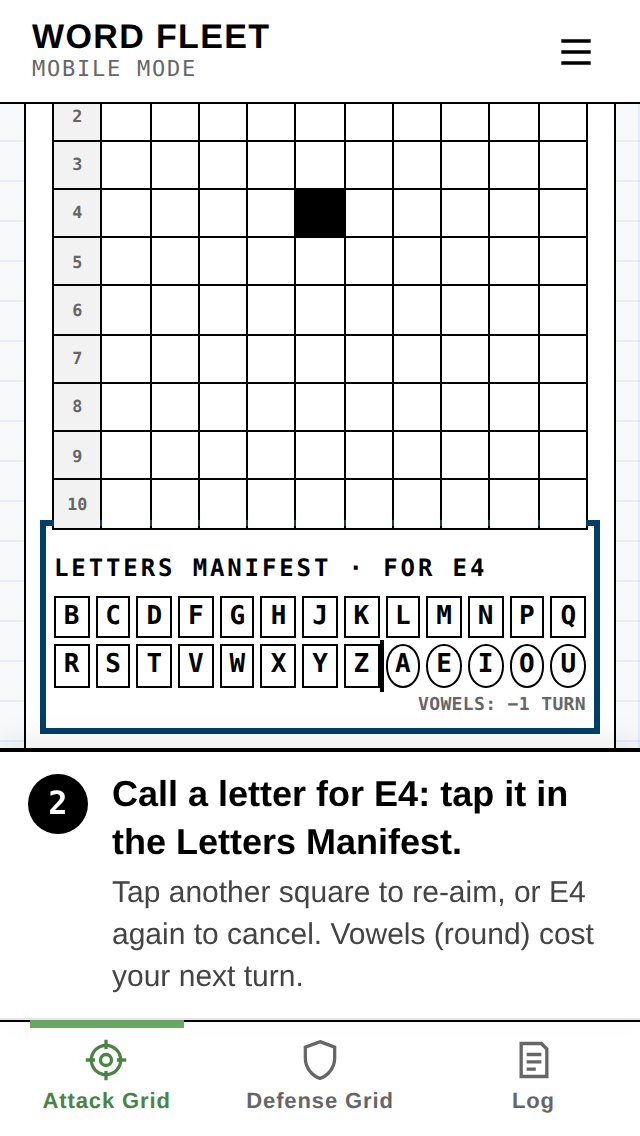
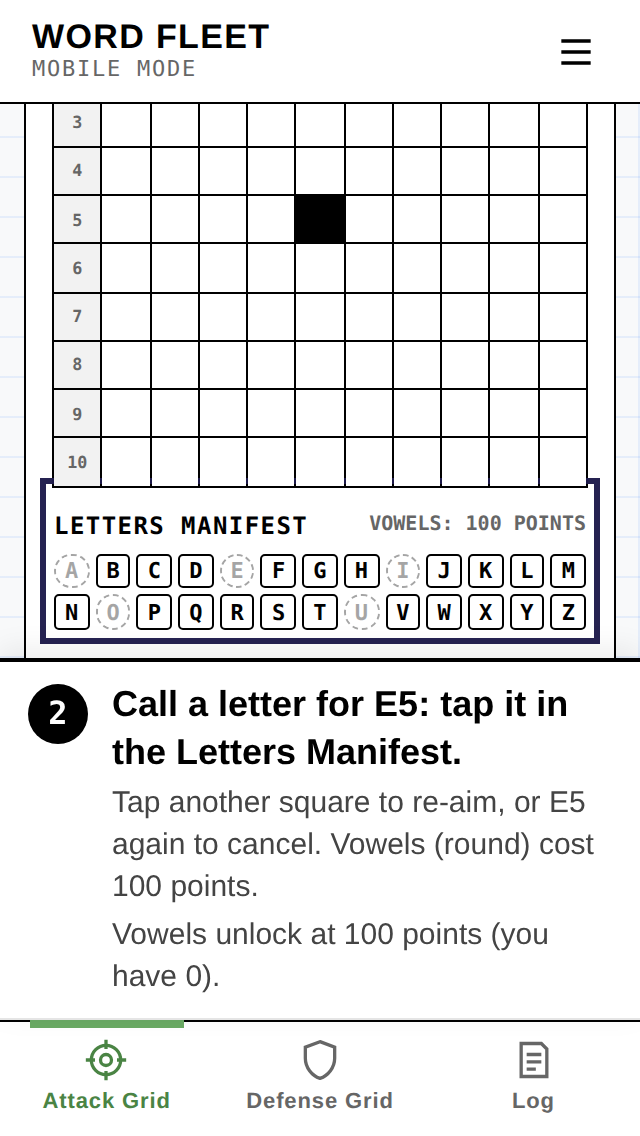
Vowels cost 100 points instead of a turn
The Human Captain needs 100 points or more to buy a vowel and pays 100 points for
it; no lost turn. Unaffordable vowels stay dimmed while aiming, with a coach line
saying when they unlock. The AI Captain keeps no score, so it still loses a turn.
v155.

Claude-Session: https://claude.ai/code/session_013sUGAAEC45a1EJCrQWVj9Q

Changed region(s): [[0.0, 0.0924, 1.0, 0.8935]]

diff --git a/mobile/app.js b/mobile/app.js
@@ -32,8 +32,10 @@
     bonus: 50,      // the called letter was in the square you aimed at
     sunk: 100,      // each word-ship sunk (every letter revealed)
     win: 500,       // victory
-    spare: 10       // at victory, each letter of the alphabet you never had to call
+    spare: 10,      // at victory, each letter of the alphabet you never had to call
+    vowel: 100      // the price of a vowel: you need this many points to buy one, and pay them
   };
+  function canBuyVowel() { return (S.score || 0) >= POINTS.vowel; }
   // Adds points and returns a short note of what they were for.
   function award(parts) {
     var total = 0, why = [];
@@ -820,7 +822,7 @@
   // chip(L, cls) returns one chip's HTML.
   function manifestHtml(label, left, chip) {
     return '<span class="uncalled-label"><span>' + label + '</span>' +
-      (left.some(isVowel) ? '<span class="uc-vowels-cap">Vowels: \u22121 turn</span>' : '') + '</span>' +
+      (left.some(isVowel) ? '<span class="uc-vowels-cap">Vowels: ' + POINTS.vowel + ' points</span>' : '') + '</span>' +
       left.map(function (L) { return chip(L, 'uc' + (isVowel(L) ? ' is-vowel' : '')); }).join('');
   }
 
@@ -897,7 +899,9 @@
     // Like the manifest: the grid lights up when it is the thing to tap (your turn, nothing aimed yet).
     $('gridAttack').classList.toggle('is-picking', live && !ui.sel);
     $('uncalled').innerHTML = manifestHtml('Letters Manifest', left, function (L, cls) {
-        return picking ? '<button type="button" class="' + cls + '" data-letter="' + L + '" aria-label="Call ' + L + (isVowel(L) ? ' (vowel: costs your next turn)' : '') + '">' + L + '</button>'
+        // A vowel you can't afford yet stays a plain (dimmed) chip.
+        if (picking && isVowel(L) && !canBuyVowel()) return '<span class="' + cls + ' is-locked" title="You need ' + POINTS.vowel + ' points to buy a vowel">' + L + '</span>';
+        return picking ? '<button type="button" class="' + cls + '" data-letter="' + L + '" aria-label="Call ' + L + (isVowel(L) ? ' (vowel: costs ' + POINTS.vowel + ' points)' : '') + '">' + L + '</button>'
                        : '<span class="' + cls + '">' + L + '</span>';
       });
     if (ui.flash) { clearTimeout(ui.flashTimer); ui.flashTimer = setTimeout(function () { ui.flash = null; }, 1800); }
@@ -967,7 +971,8 @@
       if (hint) sub.push('It calls a letter on your fleet. Watch the Defense Grid.');
     } else if (ui.sel) {
       step = '2'; main = 'Call a letter for <b>' + coordK(ui.sel) + '</b>: tap it in the Letters Manifest.';
-      if (hint) sub.push('Tap another square to re-aim, or ' + coordK(ui.sel) + ' again to cancel. Vowels (round) cost your next turn.');
+      if (hint) sub.push('Tap another square to re-aim, or ' + coordK(ui.sel) + ' again to cancel. Vowels (round) cost ' + POINTS.vowel + ' points.');
+      if (!canBuyVowel()) sub.push('Vowels unlock at ' + POINTS.vowel + ' points (you have ' + (S.score || 0) + ').');
     } else if (r && info && info.bonus) {
       cls = 'is-bonus'; step = '\u2605';
       main = 'Bonus turn! <b>' + info.L + '</b> was at <b>' + coordK(info.k) + '</b>. Tap another square.';
@@ -980,7 +985,7 @@
       if (!info.open && !info.bonus) sub.push(coordK(info.k) + ' holds a letter, not ' + info.L + ': marked ?');
       (info.sunk || []).forEach(function (w) { sub.unshift('<b>' + w + '</b> is sunk!'); });
       if (info.pts && info.pts.total) sub.push(ptsLine(info.pts));
-      if (info.vowel) sub.push('<span class="coach-warn">Vowel: you skip your next turn.</span>');
+      if (info.vowel) sub.push('<span class="coach-warn">Vowel bought: \u2212' + POINTS.vowel + ' points.</span>');
       else if (hint && info.t && !(info.sunk || []).length) sub.push('Reveal every letter of a word-ship to sink it.');
       sub.push('AI Captain\'s turn next<span class="dots"><i>.</i><i>.</i><i>.</i></span>');
     } else if (r) {
@@ -991,7 +996,7 @@
       (S.incoming || []).forEach(function (ev) { pre.push(aiMoveLine(ev)); });
       if (S.notice) pre.push(/vowel/.test(S.notice) ? 'AI lost a turn (vowel)' : S.notice);
       step = '1'; main = 'Your turn. Tap a square to aim.';
-      if (hint) sub.push('Then call a letter: every square holding it is revealed. Your letter in your square = bonus turn. Vowels cost a turn.');
+      if (hint) sub.push('Then call a letter: every square holding it is revealed. Your letter in your square = bonus turn. Vowels cost ' + POINTS.vowel + ' points.');
     }
     el.className = 'coach ' + cls;
     el.innerHTML = (step ? '<span class="coach-step">' + step + '</span>' : '') +
@@ -1124,6 +1129,7 @@
   function humanCall(L) {
     var k = ui.sel;
     if (!k || !canCall() || S.myTallies[L] != null) return;
+    if (isVowel(L) && !canBuyVowel()) return;   // vowels are bought with points
     closeSheet();
     var t = countOf(S.foe.words.join(''), L);
     var vowel = isVowel(L);
@@ -1135,13 +1141,13 @@
     ui.sel = null;
     if (!at) S.myShots[k] = { empty: true };   // open water: marked with a white dot
     else if (!bonus) markContact(S.myShots, k, L);   // holds another letter: marked ? with L ruled out
-    if (vowel) S.skip.me = true;
+    if (vowel) S.score = (S.score || 0) - POINTS.vowel;   // bought: the Human Captain pays in points, not a turn
     var sunkBefore = sunkWords(S.myShots, S.foe.ships);
     var cells = revealLetter(S.myShots, foeBoard(), L);
     var sunk = sunkWords(S.myShots, S.foe.ships).filter(function (w) { return sunkBefore.indexOf(w) === -1; });
     ui.flash = cells;
     log('me', coordK(k) + ': "Calling ' + NATO[L] + '!" &mdash; <span class="say">"' + L + ' tally ' + t + '."</span>' +
-      (bonus ? ' It was at ' + coordK(k) + ': bonus turn.' : '') + (vowel ? ' A vowel: the Human Captain loses the next turn.' : ''));
+      (bonus ? ' It was at ' + coordK(k) + ': bonus turn.' : '') + (vowel ? ' Bought a vowel: \u2212' + POINTS.vowel + ' points.' : ''));
     sfx('select');
     sfx(t ? 'fill' : 'zero', 0.2);
     if (sunk.length) log('me', sunk.join(', ') + ' sunk: every letter revealed.');
@@ -1162,7 +1168,7 @@
     var html = '<div class="report ' + (t ? 'is-good' : 'is-warn') + '"><div class="report-q">' + coordK(k) + ': "Calling ' + NATO[L] + '!"</div><div class="report-a">"' + L + ' tally ' + t + '."</div></div>' +
       (t ? revealNote(L, cells, 'the AI Captain\'s') : '<p class="hint">' + L + ' is nowhere in the AI Captain\'s fleet.</p>') +
       (bonus ? '<p class="bonus">\u2605 Bonus turn! ' + L + ' was hiding at ' + coordK(k) + '.</p>' : (at ? '' : '<p class="hint">' + coordK(k) + ' is open water.</p>')) +
-      (vowel ? '<p class="notice">Vowel: you lose your next turn.</p>' : '');
+      (vowel ? '<p class="notice">Vowel bought: \u2212' + POINTS.vowel + ' points.</p>' : '');
     setPref(CALLS_KEY, (+getPref(CALLS_KEY) || 0) + 1);
     showResult(bonus ? '\u2605 Bonus Turn!' : 'Calling ' + NATO[L], html, t > 0, bonus);
     S.result.info = { L: L, t: t, k: k, cells: cells, bonus: bonus, vowel: vowel, open: !at, sunk: sunk, pts: pts };
@@ -1429,7 +1435,7 @@
       '<h3>Your Turn: Call a Letter</h3><ul>' +
       '<li>Tap a hidden square on the Attack Grid, then call a letter. Every square in the enemy fleet that holds it is revealed, wherever it is.</li>' +
       '<li><strong>Bonus turn:</strong> if the letter is in the square you tapped, you go again. Otherwise the turn passes.</li>' +
-      '<li><strong>Vowels</strong> (A E I O U) can be called and reveal the same way, but the caller loses their next turn.</li>' +
+      '<li><strong>Vowels</strong> (A E I O U) reveal the same way, but they are bought: the Human Captain needs ' + POINTS.vowel + ' points or more and pays ' + POINTS.vowel + ' points for each. The AI Captain keeps no score, so it loses its next turn instead.</li>' +
       '<li><strong>Points:</strong> ' + POINTS.letter + ' for each letter you reveal, ' + POINTS.contact + ' for finding a square that holds a letter, ' + POINTS.bonus + ' for a bonus turn, ' + POINTS.sunk + ' for each word-ship you sink, and ' + POINTS.win + ' for victory plus ' + POINTS.spare + ' for each letter you never had to call.</li>' +
       '<li><strong>Sinking:</strong> a word-ship sinks when every one of its letters is revealed. Reveal the whole enemy fleet to win.</li></ul>' +
       '<h3>Winning</h3><ul>' +

diff --git a/mobile/index.html b/mobile/index.html
@@ -18,7 +18,7 @@
   <link rel="preconnect" href="https://fonts.gstatic.com" crossorigin>
   <link href="https://fonts.googleapis.com/css2?family=Courier+Prime:wght@400;700&family=Inter:wght@400;500;600;700&display=swap" rel="stylesheet">
   <!-- Bump ?v= on every release (and CACHE in sw.js) so a new page never runs old code. -->
-  <link rel="stylesheet" href="app.css?v=154">
+  <link rel="stylesheet" href="app.css?v=155">
 </head>
 <body>
 
@@ -228,7 +228,7 @@
 <div class="coach coach--notice" id="notice" role="alert" aria-live="assertive" hidden></div>
 <div class="bonus-banner" id="bonusBanner" role="status" aria-live="assertive" hidden></div>
 
-<script src="audio.js?v=154"></script>
-<script src="app.js?v=154"></script>
+<script src="audio.js?v=155"></script>
+<script src="app.js?v=155"></script>
 </body>
 </html>

diff --git a/mobile/sw.js b/mobile/sw.js
@@ -1,11 +1,11 @@
 /* Word Fleet service worker: the whole game works offline once loaded. */
-var CACHE = 'wordfleet-v154';
+var CACHE = 'wordfleet-v155';
 var SHELL = [
   './',
   'index.html',
-  'app.css?v=154',
-  'app.js?v=154',
-  'audio.js?v=154',
+  'app.css?v=155',
+  'app.js?v=155',
+  'audio.js?v=155',
   'manifest.webmanifest',
   'icons/icon-180.png',
   'icons/icon-192.png',

diff --git a/mobile/app.css b/mobile/app.css
@@ -785,3 +785,5 @@ button.uc:active { background: var(--mine, var(--navy)); color: var(--mine-ink, 
   75% { transform: translateY(6%) rotate(-2deg); }
   100% { transform: none; }
 }
+/* A vowel you can't afford yet (under 100 points) while aiming */
+.uc.is-locked { opacity: 0.35; border-style: dashed; }

diff --git a/mobile/screens/README.md b/mobile/screens/README.md
@@ -13,7 +13,7 @@ referred to by name when asking for changes. Each has a reference snapshot in th
 | **003-MOBILE-WORD-SHIPS** | `<section id="scrWords" data-screen="003-MOBILE-WORD-SHIPS">`, `SCREENS.words` | `003-mobile-word-ships.png` | Header line: your flag and fleet name. Card title "Build Your Word-Ships". "Allow possibly offensive words" switch ("Applies to both fleets. Switching it draws five new word-ships."): flipping it either way redraws all five words to follow the new setting. With it on, possibly offensive words come up slightly more often (a 10% nudge per word, `OFFENSIVE_NUDGE`); never-suggested words still never do. Suggested and redrawn words always come from the chosen AI Captain's word level. Section "Check your five word-ships" with ↻ REBUILD ALL; "Tap any word-ship to type your own." Possibly offensive words show in red. Each word has a ↻ redraw; a typed word is checked against the dictionary when its box loses focus, and all are checked on "NEXT: DEPLOY" (75%). Back. |
 | *(notices, 001-004)* | `#notice` (`showNotice`, `toast`, `setupNotice` in app.js) | `notice-003.png` | Prepare-section notices use the battle coach bar's look: docked at the bottom, a red **!** marker, the first sentence bold and the rest smaller. 003 shows word-ship problems there until fixed; 004 flashes "won't fit" for a moment. |
 | **004-MOBILE-DEPLOY** | `<section id="scrDeploy" data-screen="004-MOBILE-DEPLOY">`, `SCREENS.deploy` | `004-mobile-deploy.png` | Step 4 of 4 of Prepare for Battle, same look as 001-003; header line: your flag and fleet name. Card title "Deploy Your Fleet", then the Defense Grid dressed like the in-game one ("DEFENSE GRID PREVIEW" banner with your fleet name under it, in your fleet's colors from 001: color 1 behind, color 2 for the text, color 1 along the top edge). Opens with the five word-ships already deployed at random, in green; they never leave the grid. Section "Keep this layout or rearrange it" with ⇄ SHUFFLE (new random layout); drag a ship to move it, double-tap its first letter to turn it. "LET THE BATTLE BEGIN!" (progress bar full), Back. |
-| **005-MOBILE-ATTACK** | `<div id="tabAttack" data-screen="005-MOBILE-ATTACK">` in `#scrBattle`; coach bar `#coach` | `005-mobile-attack.png`, `005-mobile-bonus-turn.png` | Battle, Attack Grid tab: the Attack Grid under a banner in your fleet colors ("ATTACK GRID", your score, and the ship circles labelled "FLEET MUSTER": one per word-ship by length, filled in when sunk), with the **Letters Manifest** strip under the grid: every letter not yet called, each dropping out once called: A to Z with the vowels as round chips, and a note at the right of the title: "VOWELS: −1 TURN". The AI Letters Manifest on the Defense Grid uses the same layout. On your turn the grid is outlined in your fleet color until you aim. Tap a square to aim (the outline moves to the manifest, which lights up and its letters become buttons), then tap a letter to call it; tap another square to re-aim or the same square to cancel. There is no letter-picker popup. Your score shows in the banner under "ATTACK GRID" ("230 POINTS"), and each call that earns points adds a coach line like "+170 points +20 letters · +50 bonus · +100 sunk" (also in the Log). Points (`POINTS` in app.js): 10 per letter revealed, 5 for a ? square, 50 for a bonus turn, 100 per word-ship sunk, 500 for victory plus 10 per letter never called. Called letters show on the grid. Open water (you aimed there and nothing is there) is pale sea blue with "≈" waves, on both grids. A square known to hold a letter (you aimed there and called a different one) is solid violet (the complement of Wordle green and yellow) with a white "?" and the letters ruled out there in small white type along the bottom (the last three); it can be aimed at again. Your Defense Grid marks the AI Captain's squares the same way: a violet outline plus the letters it has ruled out in violet. The **coach bar** above the tabs always says what to do next, with a step marker and at most two buttons: ① "Your turn. Tap a square to aim." (with everything since your last turn folded into one line above it, e.g. "AI: E at A9 (0) · you lost a turn (vowel)") → ② "Call a letter for D4" → ③ '"T tally 2." Revealed at D6, C6' and "AI Captain's turn next…" (no End Turn button: after about 2.5 seconds play moves on by itself); ★ gold for a bonus turn; "AI Captain is aiming…" on its turn. The grid tells the story: new letters flip in one by one, the aimed square keeps a marker (gold ✓ when the letter was there), the called letter drops out of the Letters Manifest. Bonus turn also plays the bell-and-fanfare and flashes "★ BONUS TURN!". Longer hints for a captain's first two calls, or with Hints on in the ☰ menu. There is no Solve a Word button: revealed letters are Wordle green, and when every letter of a word-ship is revealed its squares turn dark green with white letters inside one thick outline around the whole word (its hull), the word lists, dips and settles (a sinking animation; your own word-ships sunk by the AI Captain do the same on the Defense Grid the first time you look), its Fleet Muster circle turns dark green, and the coach bar says "LABEL is sunk!". Demand Surrender (009, ☰ menu only) is the only popup. The AI's turn no longer jumps to the Defense tab; its tab gets a red dot. |
+| **005-MOBILE-ATTACK** | `<div id="tabAttack" data-screen="005-MOBILE-ATTACK">` in `#scrBattle`; coach bar `#coach` | `005-mobile-attack.png`, `005-mobile-bonus-turn.png` | Battle, Attack Grid tab: the Attack Grid under a banner in your fleet colors ("ATTACK GRID", your score, and the ship circles labelled "FLEET MUSTER": one per word-ship by length, filled in when sunk), with the **Letters Manifest** strip under the grid: every letter not yet called, each dropping out once called: A to Z with the vowels as round chips, and a note at the right of the title: "VOWELS: 100 POINTS". Vowels are bought: you need 100 points or more, and each one costs 100 points (no lost turn). Under 100 points the vowel chips stay dimmed and dashed while you aim, and the coach bar says "Vowels unlock at 100 points (you have 40)"; the AI Captain, which keeps no score, still loses its next turn for a vowel. The AI Letters Manifest on the Defense Grid uses the same layout. On your turn the grid is outlined in your fleet color until you aim. Tap a square to aim (the outline moves to the manifest, which lights up and its letters become buttons), then tap a letter to call it; tap another square to re-aim or the same square to cancel. There is no letter-picker popup. Your score shows in the banner under "ATTACK GRID" ("230 POINTS"), and each call that earns points adds a coach line like "+170 points +20 letters · +50 bonus · +100 sunk" (also in the Log). Points (`POINTS` in app.js): 10 per letter revealed, 5 for a ? square, 50 for a bonus turn, 100 per word-ship sunk, 500 for victory plus 10 per letter never called. Called letters show on the grid. Open water (you aimed there and nothing is there) is pale sea blue with "≈" waves, on both grids. A square known to hold a letter (you aimed there and called a different one) is solid violet (the complement of Wordle green and yellow) with a white "?" and the letters ruled out there in small white type along the bottom (the last three); it can be aimed at again. Your Defense Grid marks the AI Captain's squares the same way: a violet outline plus the letters it has ruled out in violet. The **coach bar** above the tabs always says what to do next, with a step marker and at most two buttons: ① "Your turn. Tap a square to aim." (with everything since your last turn folded into one line above it, e.g. "AI: E at A9 (0) · AI lost a turn (vowel)") → ② "Call a letter for D4" → ③ '"T tally 2." Revealed at D6, C6' and "AI Captain's turn next…" (no End Turn button: after about 2.5 seconds play moves on by itself); ★ gold for a bonus turn; "AI Captain is aiming…" on its turn. The grid tells the story: new letters flip in one by one, the aimed square keeps a marker (gold ✓ when the letter was there), the called letter drops out of the Letters Manifest. Bonus turn also plays the bell-and-fanfare and flashes "★ BONUS TURN!". Longer hints for a captain's first two calls, or with Hints on in the ☰ menu. There is no Solve a Word button: revealed letters are Wordle green, and when every letter of a word-ship is revealed its squares turn dark green with white letters inside one thick outline around the whole word (its hull), the word lists, dips and settles (a sinking animation; your own word-ships sunk by the AI Captain do the same on the Defense Grid the first time you look), its Fleet Muster circle turns dark green, and the coach bar says "LABEL is sunk!". Demand Surrender (009, ☰ menu only) is the only popup. The AI's turn no longer jumps to the Defense tab; its tab gets a red dot. |
 | **006-MOBILE-CALL-LETTER** | state of 005: `#uncalled.is-picking` | `006-mobile-call-letter.png` | No longer a popup. After you tap a hidden square, the Letters Manifest under the Attack Grid is outlined in your fleet color and its letters become buttons (the coach bar names the square). Coach bar step ②. |
 | **007-MOBILE-DEFENSE** | `<div id="tabDefense" data-screen="007-MOBILE-DEFENSE">` | `007-mobile-defense.png` | Battle, Defense Grid tab, built like the Attack Grid but in your fleet colors: banner "DEFENSE GRID" with your fleet name and your five ship circles (a circle turns red only when the AI Captain has revealed that whole word-ship), then your fleet with the AI Captain's picks. No incoming-fire box and no manifest on the tab: the AI Captain's moves are reported in the coach bar, and an "AI Letters Manifest" strip under the grid (matching the Attack Grid) shows the letters the AI Captain has not called yet, with the ones in your fleet filled in your colors. While the AI Captain takes its turn the Defense Grid is outlined in your fleet color, like the Attack Grid on your turn. |
 | **008-MOBILE-LOG** | `<div id="tabLog" data-screen="008-MOBILE-LOG">` | `008-mobile-log.png` | Battle, Log tab: small "CAPTAIN'S LOG" then your flag and fleet name, as on the Prepare screens. Below, newest on top, a plain list with an ⚓ bullet on every entry; your moves and the AI Captain's show that side's flag and fleet name, Fleet Command notices are just the text. |
